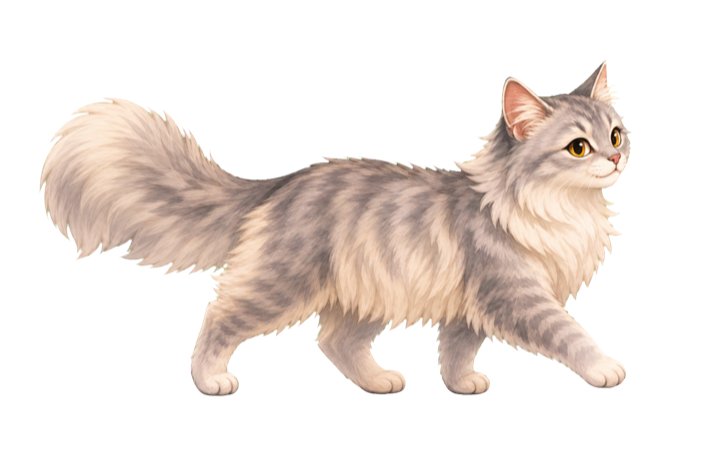
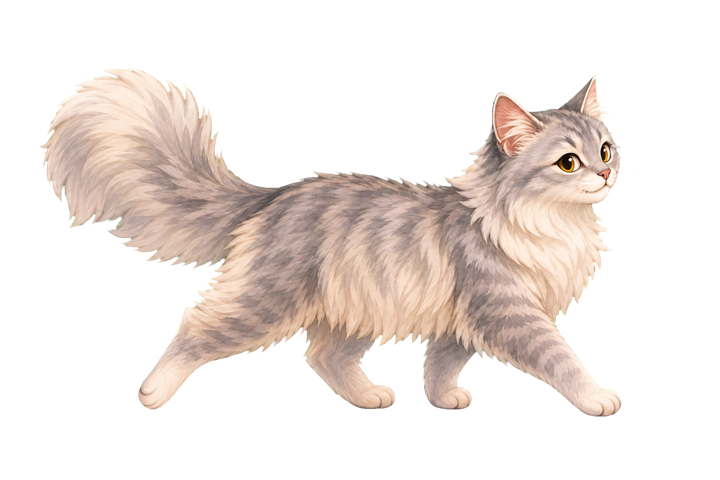
Smooth cat movement and page interactions

Changed region(s): [[0.0306, 0.1189, 0.8861, 0.8917]]

diff --git a/effects.js b/effects.js
@@ -66,19 +66,26 @@
       position: absolute; display: block; pointer-events: none;
     }
     .relay-cat-image {
-      display: block; width: 100%; height: auto;
+      position: relative; display: block; width: 100%; aspect-ratio: 3 / 2;
       filter: drop-shadow(0 5px 8px rgba(0,0,0,.38));
       transform-origin: 50% 88%; user-select: none;
       animation: relay-cat-gait .72s ease-in-out infinite;
     }
+    .relay-cat-image.sprite-top { aspect-ratio: 2 / 3; }
+    .relay-cat-frame {
+      position: absolute; inset: 0; width: 100%; height: 100%; object-fit: contain;
+      opacity: 0; transition: opacity .14s linear; user-select: none; pointer-events: none;
+    }
+    .relay-cat-frame.active { opacity: 1; }
     .relay-cat-resident {
       opacity: .98; pointer-events: auto; cursor: pointer; touch-action: manipulation;
       transition: left var(--cat-move, 5s) ease-in-out,
         top var(--cat-move, 5s) ease-in-out, opacity .25s ease;
+      will-change: left, top;
     }
     .relay-cat-resident:focus-visible { outline: 2px dashed currentColor; outline-offset: 4px; }
-    .relay-cat-resident.entering { animation: relay-cat-enter 4.2s cubic-bezier(.2,.7,.25,1) both; }
-    .relay-cat-resident.out { opacity: 0; }
+    .relay-cat-resident.entering { animation: relay-cat-enter 3.2s cubic-bezier(.2,.7,.25,1) both; }
+    .relay-cat-resident.out { opacity: 0; pointer-events: none; }
     .relay-cat-resident.running { transition-timing-function: cubic-bezier(.55,.02,.9,.35); }
     .relay-cat-resident.idle .relay-cat-image { animation-name: relay-cat-idle; animation-duration: 2.8s; }
     .relay-cat-resident.walking .relay-cat-image { animation-name: relay-cat-gait; }
@@ -158,12 +165,12 @@
     @keyframes relay-mycelium { from{transform:scale(.9) rotate(-3deg)}to{transform:scale(1.16) rotate(6deg)} }
     @keyframes relay-cat-enter { from{opacity:0;transform:translateX(var(--cat-enter-x))} to{opacity:.98;transform:translateX(0)} }
     @keyframes relay-cat-gait {
-      0%,100%{transform:scaleX(var(--cat-facing)) translateY(0) rotate(-.7deg)}
-      50%{transform:scaleX(var(--cat-facing)) translateY(-5px) rotate(.7deg)}
+      0%,100%{transform:scaleX(var(--cat-facing)) translateY(0)}
+      50%{transform:scaleX(var(--cat-facing)) translateY(-2px)}
     }
     @keyframes relay-cat-idle {
-      0%,100%{transform:scaleX(var(--cat-facing)) translateY(0) rotate(-.35deg)}
-      50%{transform:scaleX(var(--cat-facing)) translateY(-2px) rotate(.35deg)}
+      0%,100%{transform:scaleX(var(--cat-facing)) translateY(0)}
+      50%{transform:scaleX(var(--cat-facing)) translateY(-1px)}
     }
     @keyframes relay-cat-peek-right {
       0%,100%{opacity:0;transform:translateX(-98%)}
@@ -183,6 +190,7 @@
       html.relay-effect-lsd body > :not(script):not(.relay-trip-layer):not(.relay-filter-bank):not(.relay-cat-layer) { filter: url(#relay-lsd-distortion) hue-rotate(20deg) saturate(1.35); }
       html.relay-effect-shrooms body > :not(script):not(.relay-trip-layer):not(.relay-filter-bank):not(.relay-cat-layer) { filter: url(#relay-shroom-distortion) saturate(1.25) sepia(.08); }
       .relay-cat-image { animation: none; }
+      .relay-cat-frame { transition: none; }
       .relay-cat-resident { transition: none; }
       .relay-cat-resident.entering { animation: none; }
     }
@@ -270,24 +278,42 @@
     const frames = CAT_FRAMES[nextPose];
     clearTimeout(image._relayCatFrameTimer);
     image.dataset.pose = nextPose;
-    image.src = frames[0];
+    image.classList.toggle("sprite-top", nextPose === "top");
+    const layers = [...image.querySelectorAll(".relay-cat-frame")];
+    layers.forEach((layer, index) => {
+      layer.classList.toggle("active", index === 0);
+      layer.src = frames[0];
+    });
     if (reducedMotion) return;
 
     let cursor = 0;
+    let activeLayer = 0;
     const advance = () => {
       if (!image.isConnected || image.dataset.pose !== nextPose) return;
       cursor = (cursor + 1) % CAT_FRAME_SEQUENCE.length;
-      image.src = frames[CAT_FRAME_SEQUENCE[cursor]];
+      const incomingLayer = activeLayer === 0 ? 1 : 0;
+      layers[incomingLayer].src = frames[CAT_FRAME_SEQUENCE[cursor]];
+      requestAnimationFrame(() => {
+        if (!image.isConnected || image.dataset.pose !== nextPose) return;
+        layers[activeLayer].classList.remove("active");
+        layers[incomingLayer].classList.add("active");
+        activeLayer = incomingLayer;
+      });
       image._relayCatFrameTimer = setTimeout(advance, CAT_FRAME_DELAYS[nextPose]);
     };
     image._relayCatFrameTimer = setTimeout(advance, CAT_FRAME_DELAYS[nextPose]);
   }
 
   function makeCat(width, facing, pose = "walk") {
-    const image = document.createElement("img");
+    const image = document.createElement("div");
     image.className = "relay-cat-image";
-    image.alt = "";
-    image.draggable = false;
+    for (let index = 0; index < 2; index += 1) {
+      const frame = document.createElement("img");
+      frame.className = "relay-cat-frame";
+      frame.alt = "";
+      frame.draggable = false;
+      image.appendChild(frame);
+    }
     image.style.width = `${width}px`;
     image.style.setProperty("--cat-facing", facing);
     setCatImagePose(image, pose);
@@ -305,6 +331,22 @@
 
   function randomIdlePose() {
     return CAT_IDLE_POSES[Math.floor(Math.random() * CAT_IDLE_POSES.length)];
+  }
+
+  function wireResident(resident, title) {
+    resident.setAttribute("role", "button");
+    resident.setAttribute("tabindex", "0");
+    resident.setAttribute("aria-label", "Fluffy Relay cat. Click to make it run away.");
+    resident.title = title;
+    resident.addEventListener("click", runAwayCat);
+    resident.addEventListener("keydown", (event) => {
+      if (event.key !== "Enter" && event.key !== " ") return;
+      event.preventDefault();
+      runAwayCat(event);
+    });
+    resident.addEventListener("pointerenter", () => {
+      if (catResident === resident && resident.classList.contains("idle")) setResidentPose("look");
+    });
   }
 
   function visibleFeatures() {
@@ -335,7 +377,13 @@
     slider.className = "relay-cat-slider";
     slider.appendChild(makeCat(width, toRight ? 1 : -1, "peek"));
     visitor.appendChild(slider);
-    return { visitor, stay };
+    return {
+      visitor,
+      stay,
+      left: Number.parseFloat(visitor.style.left),
+      top: Number.parseFloat(visitor.style.top),
+      facing: toRight ? 1 : -1,
+    };
   }
 
   function catWidth() {
@@ -346,15 +394,40 @@
     return Math.max(document.documentElement.scrollHeight, document.body?.scrollHeight || 0, innerHeight);
   }
 
+  function spotCoversControl(left, top, width, height) {
+    const viewportTop = top - (window.scrollY || 0);
+    const candidate = { left, right: left + width, top: viewportTop, bottom: viewportTop + height };
+    const controls = document.querySelectorAll("a, button, input, textarea, select, summary, [role='button']");
+    return [...controls].some((control) => {
+      if (control === catResident || catLayer?.contains(control)) return false;
+      const rect = control.getBoundingClientRect();
+      if (rect.width < 1 || rect.height < 1 || rect.bottom < 0 || rect.top > innerHeight) return false;
+      return candidate.left < rect.right + 14 && candidate.right > rect.left - 14 &&
+        candidate.top < rect.bottom + 14 && candidate.bottom > rect.top - 14;
+    });
+  }
+
   function catSpot(width, nearViewport = true) {
     const estimatedHeight = width * .72;
-    const top = nearViewport
-      ? (window.scrollY || 0) + innerHeight * (.56 + Math.random() * .2)
-      : (Number.parseFloat(catResident?.style.top) || window.scrollY || 0) + (Math.random() - .5) * Math.min(260, innerHeight * .42);
-    return {
-      left: 18 + Math.random() * Math.max(1, innerWidth - width - 36),
-      top: Math.max(10, Math.min(pageHeight() - estimatedHeight - 10, top)),
-    };
+    let fallback;
+    for (let attempt = 0; attempt < 14; attempt += 1) {
+      const rawTop = nearViewport
+        ? (window.scrollY || 0) + innerHeight * (.54 + Math.random() * .24)
+        : (Number.parseFloat(catResident?.style.top) || window.scrollY || 0) + (Math.random() - .5) * Math.min(260, innerHeight * .42);
+      const spot = {
+        left: 18 + Math.random() * Math.max(1, innerWidth - width - 36),
+        top: Math.max(10, Math.min(pageHeight() - estimatedHeight - 10, rawTop)),
+      };
+      fallback = spot;
+      if (!spotCoversControl(spot.left, spot.top, width, estimatedHeight)) return spot;
+    }
+    return fallback;
+  }
+
+  function catTravelDuration(fromLeft, fromTop, toLeft, toTop, speed = 72) {
+    if (reducedMotion) return 80;
+    const distance = Math.hypot(toLeft - fromLeft, toTop - fromTop);
+    return Math.max(1400, Math.min(5600, distance / speed * 1000));
   }
 
   function catIsInViewport() {
@@ -398,21 +471,12 @@
     resident.style.left = `${spot.left}px`;
     resident.style.top = `${spot.top}px`;
     resident.style.setProperty("--cat-enter-x", `${fromRight ? innerWidth - spot.left : -(spot.left + width)}px`);
-    resident.setAttribute("role", "button");
-    resident.setAttribute("tabindex", "0");
-    resident.setAttribute("aria-label", "Fluffy Relay cat. Click to make it run away.");
-    resident.title = "pspsps — click me";
+    wireResident(resident, "pspsps — click me");
     resident.appendChild(makeCat(width, fromRight ? -1 : 1, entering ? "walk" : randomIdlePose()));
-    resident.addEventListener("click", runAwayCat);
-    resident.addEventListener("keydown", (event) => {
-      if (event.key !== "Enter" && event.key !== " ") return;
-      event.preventDefault();
-      runAwayCat(event);
-    });
     ensureCatLayer().appendChild(resident);
     catResident = resident;
 
-    const settle = reducedMotion || !entering ? 80 : 4300;
+    const settle = reducedMotion || !entering ? 80 : 3300;
     catActionTimer = setTimeout(() => {
       if (!catResident?.isConnected) return;
       catResident.classList.remove("entering", "walking");
@@ -430,7 +494,8 @@
     const width = catWidth();
     const spot = catSpot(width, false);
     const currentLeft = Number.parseFloat(catResident.style.left) || 0;
-    const duration = reducedMotion ? 80 : 3800 + Math.random() * 3200;
+    const currentTop = Number.parseFloat(catResident.style.top) || 0;
+    const duration = catTravelDuration(currentLeft, currentTop, spot.left, spot.top);
     const image = catResident.querySelector(".relay-cat-image");
     image?.style.setProperty("--cat-facing", spot.left >= currentLeft ? 1 : -1);
     catResident.classList.remove("idle");
@@ -453,14 +518,26 @@
   function hideResidentCat(features) {
     if (!catResident?.isConnected) return;
     const visit = peekingCat(catWidth(), features);
-    catResident.classList.add("out");
-    catPeek = visit.visitor;
-    ensureCatLayer().appendChild(catPeek);
+    const currentLeft = Number.parseFloat(catResident.style.left) || 0;
+    const currentTop = Number.parseFloat(catResident.style.top) || 0;
+    const duration = catTravelDuration(currentLeft, currentTop, visit.left, visit.top, 105);
+    catResident.classList.remove("idle");
+    catResident.classList.add("walking");
+    catResident.style.setProperty("--cat-move", `${duration}ms`);
+    setResidentPose("walk", visit.facing);
+    catResident.style.left = `${visit.left}px`;
+    catResident.style.top = `${visit.top}px`;
     catActionTimer = setTimeout(() => {
-      catPeek?.remove();
-      catPeek = null;
-      summonResidentCat(true);
-    }, visit.stay + 100);
+      if (!catResident?.isConnected) return;
+      catResident.classList.add("out");
+      catPeek = visit.visitor;
+      ensureCatLayer().appendChild(catPeek);
+      catActionTimer = setTimeout(() => {
+        catPeek?.remove();
+        catPeek = null;
+        summonResidentCat(true);
+      }, visit.stay + 100);
+    }, duration + 80);
   }
 
   function catchUpResidentCat(direction = lastScrollDirection) {
@@ -486,17 +563,8 @@
     resident.style.left = `${left}px`;
     resident.style.top = `${startTop}px`;
     resident.style.setProperty("--cat-move", `${duration}ms`);
-    resident.setAttribute("role", "button");
-    resident.setAttribute("tabindex", "0");
-    resident.setAttribute("aria-label", "Fluffy Relay cat. Click to make it run away.");
-    resident.title = "caught up — click me";
+    wireResident(resident, "caught up — click me");
     resident.appendChild(makeCat(width, 1, "top"));
-    resident.addEventListener("click", runAwayCat);
-    resident.addEventListener("keydown", (event) => {
-      if (event.key !== "Enter" && event.key !== " ") return;
-      event.preventDefault();
-      runAwayCat(event);
-    });
     ensureCatLayer().appendChild(resident);
     catResident = resident;
 

diff --git a/EASTER_EGGS.md b/EASTER_EGGS.md
@@ -17,7 +17,7 @@ completion.
 | `coffee` | Dispenses one terminal-grade coffee. |
 | `exit` | Explains the architectural problem with leaving the Relay. |
 | `404` | Deliberately loses the signal and opens a special version of the Relay's 404 page. |
-| `cat` | Wakes a fluffy long-haired site cat for the rest of that browser tab's session. It lives at a real spot in each page instead of sticking to the screen and animates through 24 matched frames across eight poses (walking, sitting, loafing, grooming, looking back, peeking, stretching, and an overhead return). It wanders and hides behind page features. If scrolling leaves it behind, it walks back onto the current part of the page after you stop. Click it and it bolts off the nearest edge before cautiously returning. Type `clear` or `/clear` at the Relay to send it home. (`cat notes` still reads transmissions.) |
+| `cat` | Wakes a fluffy long-haired site cat for the rest of that browser tab's session. It lives at a real spot in each page instead of sticking to the screen and animates through 24 matched frames across eight poses (walking, sitting, loafing, grooming, looking back, peeking, stretching, and an overhead return). It avoids covering links and controls, looks back when hovered, and walks over to page features before hiding behind them. If scrolling leaves it behind, it walks back onto the current part of the page after you stop. Click it and it bolts off the nearest edge before cautiously returning. Type `clear` or `/clear` at the Relay to send it home. (`cat notes` still reads transmissions.) |
 | `lsd` | Turns on the fast, prismatic sitewide visual mode. It follows you into every room and project. |
 | `shrooms` | Turns on the slower, breathing sitewide visual mode. It follows you too. |
 | `sober` | Clears either visual mode and returns the site to normal. |